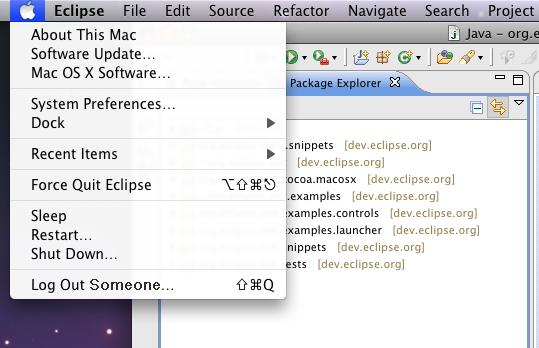
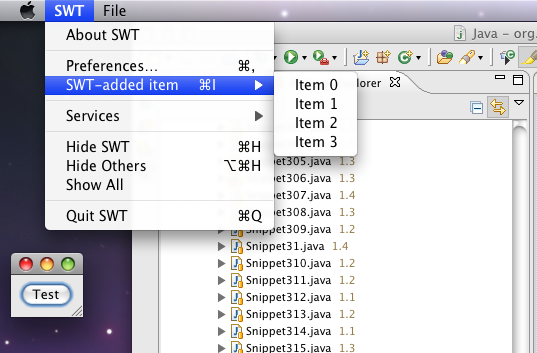
Display.getSystemMenu updates

diff --git a/R3_7/new_and_noteworthy.html b/R3_7/new_and_noteworthy.html
@@ -233,9 +233,9 @@ Please note that this API is a work in progress, and is currently Cocoa-only. Pl
     <td colspan="2"><hr /></td>
   </tr>
   <tr id="systemMenu">
-    <td width="30%" valign="top" align="left"><b>Cocoa Menu.getSystemMenu</td>
+    <td width="30%" valign="top" align="left"><b>Cocoa Display.getSystemMenu</td>
     <td width="70%" valign="top">
-      Menu.getSystemMenu() is a new API that returns the system-provided menu for the application.
+      Display.getSystemMenu() is a new API that returns the system-provided menu for the application.
       You can access menu items in the system menu by comparing a MenuItem's id with various SWT.ID_* constants.
       Right now, this API is only available in the Mac OS X Cocoa port. It will return null on all other platforms.
       See <a href="http://dev.eclipse.org/viewcvs/index.cgi/%7Echeckout%7E/org.eclipse.swt.snippets/src/org/eclipse/swt/snippets/Snippet354.java">this snippet</a>
